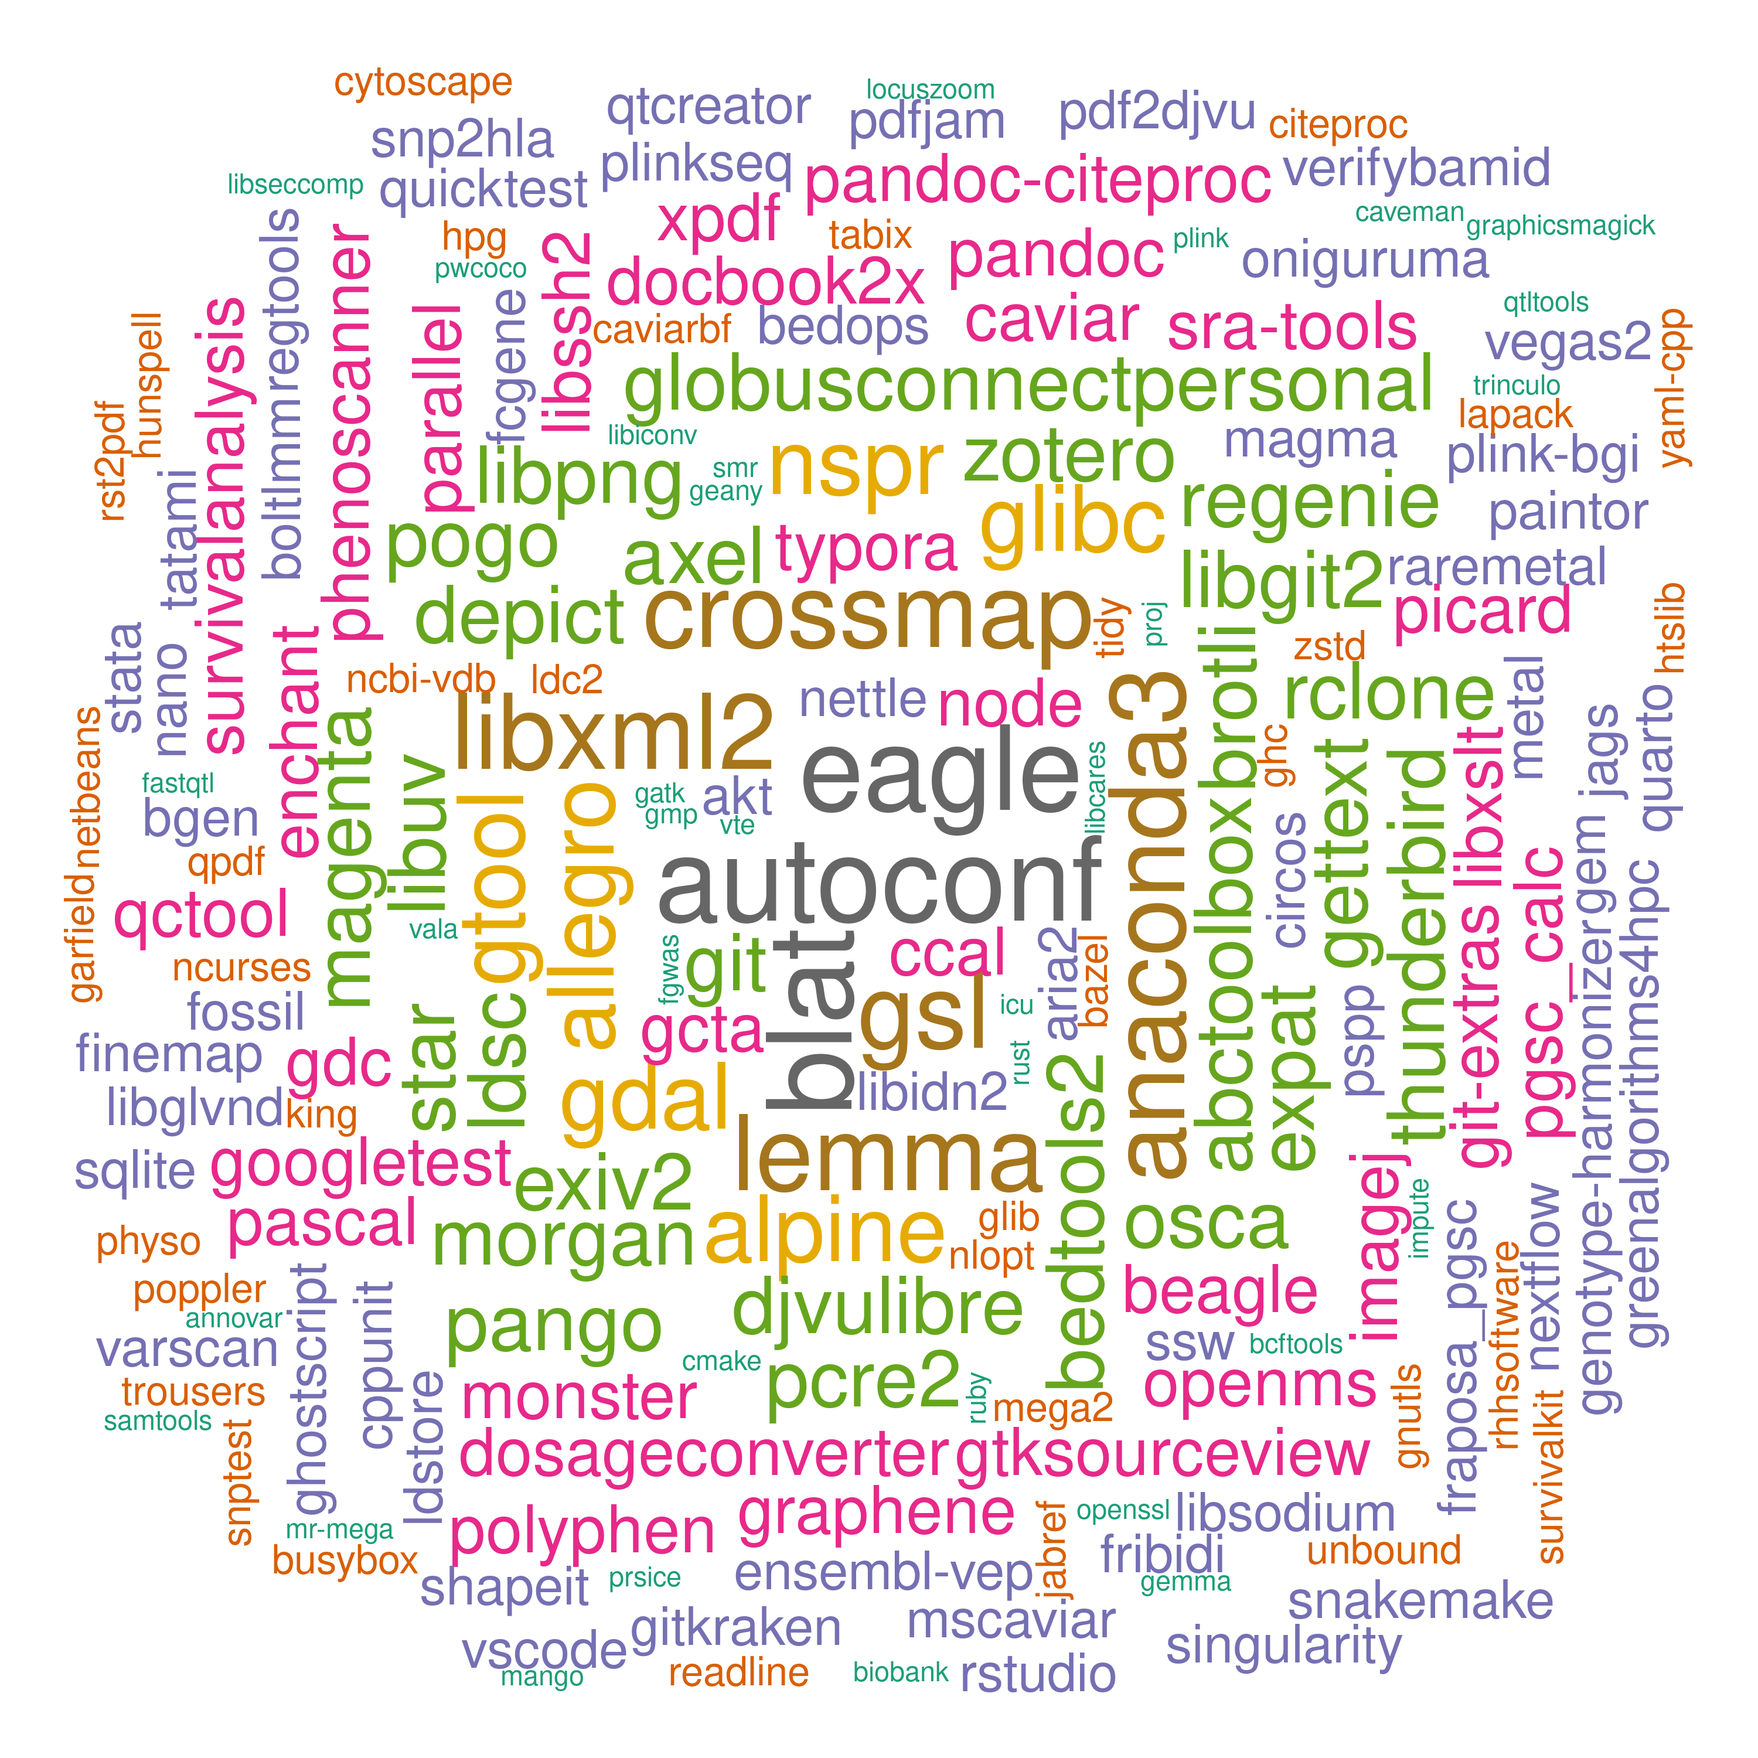
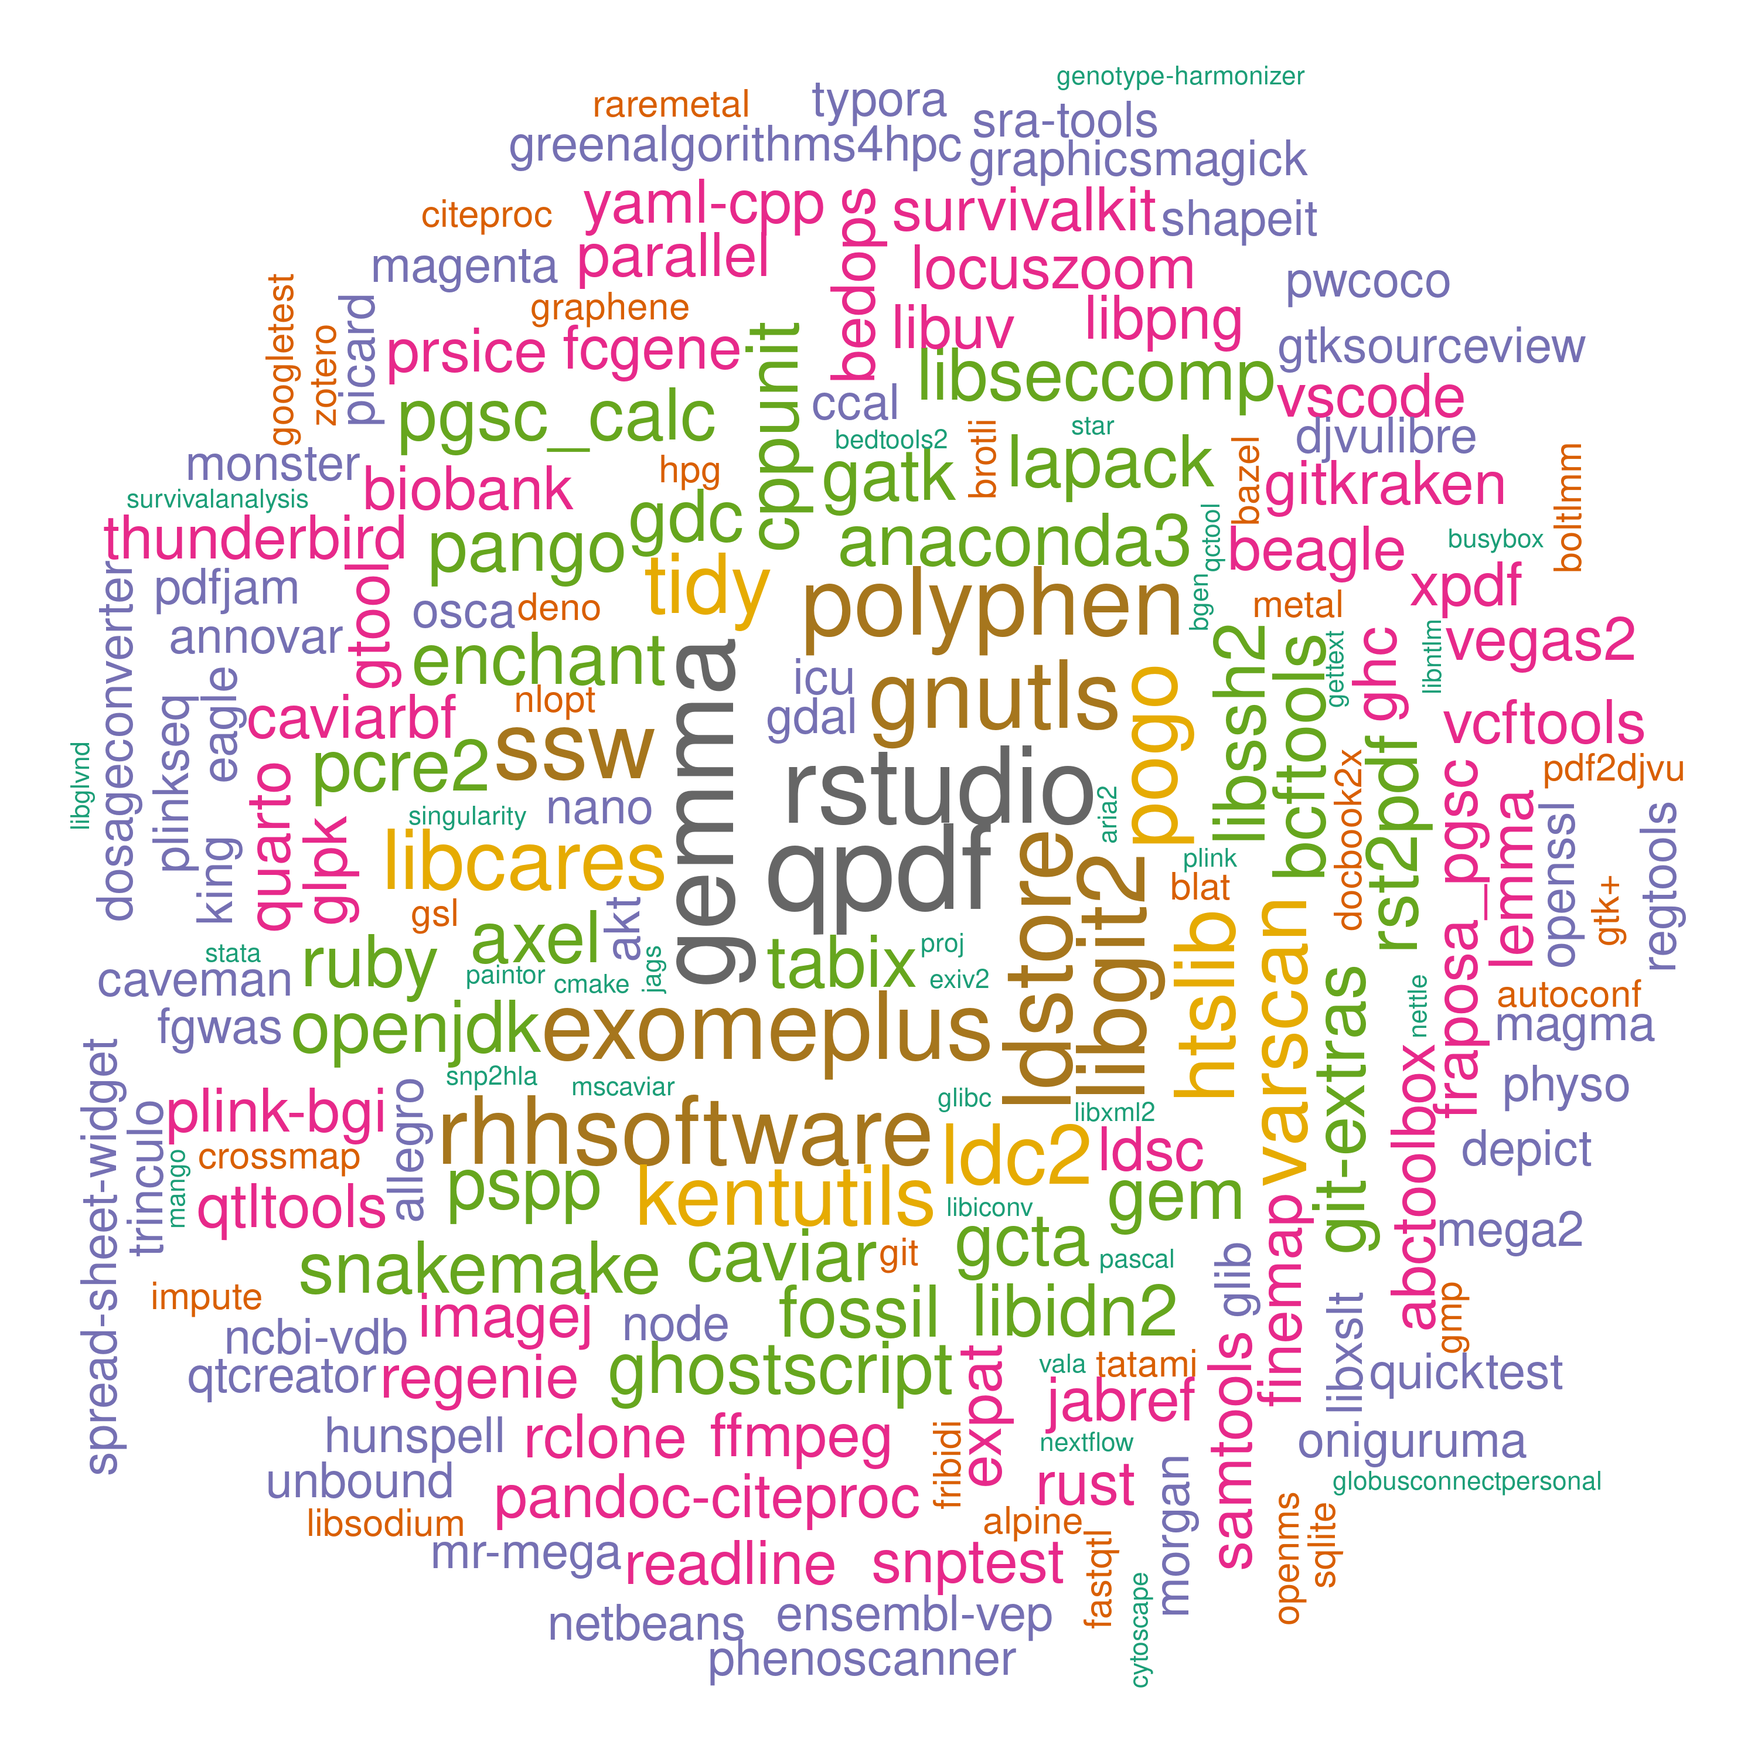
./

Changed region(s): [[0.031, 0.031, 0.961, 0.961]]

diff --git a/systems/ceuadmin.md b/systems/ceuadmin.md
@@ -8,7 +8,7 @@ The CEU software repository is here, **/usr/local/Cluster-Apps/ceuadmin/**.
 
 ![ceuadmin](ceuadmin.png)
 
-noting that the importance of software is purely random according to $$Poisson(N,\lambda)$$ where $$N=207$$, $$\lambda=3$$.
+noting that the importance of software is purely random according to $$Poisson(N,\lambda)$$ where $$N=208$$, $$\lambda=3$$.
 
 ## Entries
 
@@ -32,41 +32,41 @@ The current list is as follows,
  [57] "GEMMA"                 "Genotype-Harmonizer"   "gettext"               "gh"
  [61] "ghc"                   "ghostscript"           "git"                   "git-extras"
  [65] "GitKraken"             "glib"                  "glibc"                 "globusconnectpersonal"
- [69] "gmp"                   "gnutls"                "go"                    "googletest"
- [73] "graphene"              "GraphicsMagick"        "GreenAlgorithms4HPC"   "gsl"
- [77] "gtk+"                  "gtksourceview"         "gtool"                 "hpg"
- [81] "htslib"                "hunspell"              "icu"                   "ImageJ"
- [85] "impute"                "JabRef"                "JAGS"                  "jq"
- [89] "KentUtils"             "KING"                  "lapack"                "ldc2"
- [93] "ldsc"                  "LDstore"               "LEMMA"                 "libcares"
- [97] "libgit2"               "libglvnd"              "libiconv"              "libidn2"
-[101] "libntlm"               "libpng"                "libseccomp"            "libsodium"
-[105] "libssh2"               "libuv"                 "libxml2"               "libxslt"
-[109] "locuszoom"             "MAGENTA"               "magma"                 "Mango"
-[113] "Mega2"                 "metal"                 "MONSTER"               "MORGAN"
-[117] "MR-MEGA"               "MsCAVIAR"              "nano"                  "ncbi-vdb"
-[121] "ncurses"               "netbeans"              "nettle"                "nextflow"
-[125] "NLopt"                 "node"                  "nspr"                  "oniguruma"
-[129] "openjdk"               "OpenMS"                "openssl"               "osca"
-[133] "PAINTOR"               "pandoc"                "pandoc-citeproc"       "pango"
-[137] "parallel"              "Pascal"                "pcre2"                 "pdf2djvu"
-[141] "pdfjam"                "pgsc_calc"             "phenoscanner"          "PhySO"
-[145] "picard"                "plink"                 "plink-bgi"             "plinkseq"
-[149] "PoGo"                  "polyphen"              "poppler"               "proj"
-[153] "PRSice"                "pspp"                  "PWCoCo"                "qctool"
-[157] "qpdf"                  "qt"                    "qtcreator"             "QTLtools"
-[161] "quarto"                "quicktest"             "R"                     "raremetal"
-[165] "rclone"                "readline"              "regenie"               "regtools"
-[169] "RHHsoftware"           "rst2pdf"               "rstudio"               "ruby"
-[173] "rust"                  "samtools"              "shapeit"               "singularity"
-[177] "SMR"                   "snakemake"             "SNP2HLA"               "snptest"
-[181] "spread-sheet-widget"   "sqlite"                "sra-tools"             "ssw"
-[185] "STAR"                  "stata"                 "SurvivalAnalysis"      "SurvivalKit"
-[189] "tabix"                 "tatami"                "thunderbird"           "tidy"
-[193] "trinculo"              "trousers"              "Typora"                "unbound"
-[197] "vala"                  "VarScan"               "vcftools"              "VEGAS2"
-[201] "verifyBamID"           "VSCode"                "vte"                   "xpdf"
-[205] "yaml-cpp"              "Zotero"                "zstd"
+ [69] "glpk"                  "gmp"                   "gnutls"                "go"
+ [73] "googletest"            "graphene"              "GraphicsMagick"        "GreenAlgorithms4HPC"
+ [77] "gsl"                   "gtk+"                  "gtksourceview"         "gtool"
+ [81] "hpg"                   "htslib"                "hunspell"              "icu"
+ [85] "ImageJ"                "impute"                "JabRef"                "JAGS"
+ [89] "jq"                    "KentUtils"             "KING"                  "lapack"
+ [93] "ldc2"                  "ldsc"                  "LDstore"               "LEMMA"
+ [97] "libcares"              "libgit2"               "libglvnd"              "libiconv"
+[101] "libidn2"               "libntlm"               "libpng"                "libseccomp"
+[105] "libsodium"             "libssh2"               "libuv"                 "libxml2"
+[109] "libxslt"               "locuszoom"             "MAGENTA"               "magma"
+[113] "Mango"                 "Mega2"                 "metal"                 "MONSTER"
+[117] "MORGAN"                "MR-MEGA"               "MsCAVIAR"              "nano"
+[121] "ncbi-vdb"              "ncurses"               "netbeans"              "nettle"
+[125] "nextflow"              "NLopt"                 "node"                  "nspr"
+[129] "oniguruma"             "openjdk"               "OpenMS"                "openssl"
+[133] "osca"                  "PAINTOR"               "pandoc"                "pandoc-citeproc"
+[137] "pango"                 "parallel"              "Pascal"                "pcre2"
+[141] "pdf2djvu"              "pdfjam"                "pgsc_calc"             "phenoscanner"
+[145] "PhySO"                 "picard"                "plink"                 "plink-bgi"
+[149] "plinkseq"              "PoGo"                  "polyphen"              "poppler"
+[153] "proj"                  "PRSice"                "pspp"                  "PWCoCo"
+[157] "qctool"                "qpdf"                  "qt"                    "qtcreator"
+[161] "QTLtools"              "quarto"                "quicktest"             "R"
+[165] "raremetal"             "rclone"                "readline"              "regenie"
+[169] "regtools"              "RHHsoftware"           "rst2pdf"               "rstudio"
+[173] "ruby"                  "rust"                  "samtools"              "shapeit"
+[177] "singularity"           "SMR"                   "snakemake"             "SNP2HLA"
+[181] "snptest"               "spread-sheet-widget"   "sqlite"                "sra-tools"
+[185] "ssw"                   "STAR"                  "stata"                 "SurvivalAnalysis"
+[189] "SurvivalKit"           "tabix"                 "tatami"                "thunderbird"
+[193] "tidy"                  "trinculo"              "trousers"              "Typora"
+[197] "unbound"               "vala"                  "VarScan"               "vcftools"
+[201] "VEGAS2"                "verifyBamID"           "VSCode"                "vte"
+[205] "xpdf"                  "yaml-cpp"              "Zotero"                "zstd"
 ```
 
 These are wrapped up as :star::star::star: **[modules](https://modules.readthedocs.io/en/latest/index.html)** :star::star::star:.
@@ -113,15 +113,15 @@ available from `/rds/project/jmmh2/software` but now `/rds/project/jmmh2/rds-jmm
 largely be seen as sources which are used to build the reoository given above.
 
 CEU users will be able to use `ANNOVAR`, `ensembl-vep`, `OpenMS`, `polyphen`, `KentUtils`/`MAGMA`/`Pascal`/`VEGASV2`/`fgwas`/`locuszoom`
-linking internal projects/personal space (additional requests need to be made). A large collection of R packages (1,385 as of 18/1/2024)
-is linked with the latest R distribution, 4.3.2.
+linking internal projects/personal space (additional requests need to be made). A large collection of R packages (1,408 as of 1/3/2024)
+is linked with the latest R distribution, 4.3.3.
 
 For CEU users, it is easy to point to them, e.g.,
 
 ```bash
 export HPC_WORK=/rds/user/$USER/hpc-work/
 export RDS=/rds/project/jmmh2/rds-jmmh2-public_databases/software
-export R_LIBS=${RDS}/R:${RDS}/R-4.3.2/library
+export R_LIBS=${RDS}/R:${RDS}/R-4.3.3/library
 ```
 
 or possible to have your own installations based on these, e.g., through creation of a modified `Makefile` with altered prefix followed
@@ -131,8 +131,8 @@ The following script tests for loading of `dplyr`:
 
 ```bash
 export RDS=/rds/project/jmmh2/rds-jmmh2-public_databases/software
-export PATH=${PATH}:${RDS}/R-4.3.2/bin
-export R_LIBS=${RDS}/R-4.3.2/library:${RDS}/R
+export PATH=${PATH}:${RDS}/R-4.3.3/bin
+export R_LIBS=${RDS}/R-4.3.3/library:${RDS}/R
 Rscript -e 'suppressMessages(library(dplyr));cat("OK!\n")'
 ```
 

diff --git a/systems/files/ceuadmin.md b/systems/files/ceuadmin.md
@@ -22,41 +22,41 @@ The current list is as follows[^ls],
  [57] "GEMMA"                 "Genotype-Harmonizer"   "gettext"               "gh"
  [61] "ghc"                   "ghostscript"           "git"                   "git-extras"
  [65] "GitKraken"             "glib"                  "glibc"                 "globusconnectpersonal"
- [69] "gmp"                   "gnutls"                "go"                    "googletest"
- [73] "graphene"              "GraphicsMagick"        "GreenAlgorithms4HPC"   "gsl"
- [77] "gtk+"                  "gtksourceview"         "gtool"                 "hpg"
- [81] "htslib"                "hunspell"              "icu"                   "ImageJ"
- [85] "impute"                "JabRef"                "JAGS"                  "jq"
- [89] "KentUtils"             "KING"                  "lapack"                "ldc2"
- [93] "ldsc"                  "LDstore"               "LEMMA"                 "libcares"
- [97] "libgit2"               "libglvnd"              "libiconv"              "libidn2"
-[101] "libntlm"               "libpng"                "libseccomp"            "libsodium"
-[105] "libssh2"               "libuv"                 "libxml2"               "libxslt"
-[109] "locuszoom"             "MAGENTA"               "magma"                 "Mango"
-[113] "Mega2"                 "metal"                 "MONSTER"               "MORGAN"
-[117] "MR-MEGA"               "MsCAVIAR"              "nano"                  "ncbi-vdb"
-[121] "ncurses"               "netbeans"              "nettle"                "nextflow"
-[125] "NLopt"                 "node"                  "nspr"                  "oniguruma"
-[129] "openjdk"               "OpenMS"                "openssl"               "osca"
-[133] "PAINTOR"               "pandoc"                "pandoc-citeproc"       "pango"
-[137] "parallel"              "Pascal"                "pcre2"                 "pdf2djvu"
-[141] "pdfjam"                "pgsc_calc"             "phenoscanner"          "PhySO"
-[145] "picard"                "plink"                 "plink-bgi"             "plinkseq"
-[149] "PoGo"                  "polyphen"              "poppler"               "proj"
-[153] "PRSice"                "pspp"                  "PWCoCo"                "qctool"
-[157] "qpdf"                  "qt"                    "qtcreator"             "QTLtools"
-[161] "quarto"                "quicktest"             "R"                     "raremetal"
-[165] "rclone"                "readline"              "regenie"               "regtools"
-[169] "RHHsoftware"           "rst2pdf"               "rstudio"               "ruby"
-[173] "rust"                  "samtools"              "shapeit"               "singularity"
-[177] "SMR"                   "snakemake"             "SNP2HLA"               "snptest"
-[181] "spread-sheet-widget"   "sqlite"                "sra-tools"             "ssw"
-[185] "STAR"                  "stata"                 "SurvivalAnalysis"      "SurvivalKit"
-[189] "tabix"                 "tatami"                "thunderbird"           "tidy"
-[193] "trinculo"              "trousers"              "Typora"                "unbound"
-[197] "vala"                  "VarScan"               "vcftools"              "VEGAS2"
-[201] "verifyBamID"           "VSCode"                "vte"                   "xpdf"
-[205] "yaml-cpp"              "Zotero"                "zstd"
+ [69] "glpk"                  "gmp"                   "gnutls"                "go"
+ [73] "googletest"            "graphene"              "GraphicsMagick"        "GreenAlgorithms4HPC"
+ [77] "gsl"                   "gtk+"                  "gtksourceview"         "gtool"
+ [81] "hpg"                   "htslib"                "hunspell"              "icu"
+ [85] "ImageJ"                "impute"                "JabRef"                "JAGS"
+ [89] "jq"                    "KentUtils"             "KING"                  "lapack"
+ [93] "ldc2"                  "ldsc"                  "LDstore"               "LEMMA"
+ [97] "libcares"              "libgit2"               "libglvnd"              "libiconv"
+[101] "libidn2"               "libntlm"               "libpng"                "libseccomp"
+[105] "libsodium"             "libssh2"               "libuv"                 "libxml2"
+[109] "libxslt"               "locuszoom"             "MAGENTA"               "magma"
+[113] "Mango"                 "Mega2"                 "metal"                 "MONSTER"
+[117] "MORGAN"                "MR-MEGA"               "MsCAVIAR"              "nano"
+[121] "ncbi-vdb"              "ncurses"               "netbeans"              "nettle"
+[125] "nextflow"              "NLopt"                 "node"                  "nspr"
+[129] "oniguruma"             "openjdk"               "OpenMS"                "openssl"
+[133] "osca"                  "PAINTOR"               "pandoc"                "pandoc-citeproc"
+[137] "pango"                 "parallel"              "Pascal"                "pcre2"
+[141] "pdf2djvu"              "pdfjam"                "pgsc_calc"             "phenoscanner"
+[145] "PhySO"                 "picard"                "plink"                 "plink-bgi"
+[149] "plinkseq"              "PoGo"                  "polyphen"              "poppler"
+[153] "proj"                  "PRSice"                "pspp"                  "PWCoCo"
+[157] "qctool"                "qpdf"                  "qt"                    "qtcreator"
+[161] "QTLtools"              "quarto"                "quicktest"             "R"
+[165] "raremetal"             "rclone"                "readline"              "regenie"
+[169] "regtools"              "RHHsoftware"           "rst2pdf"               "rstudio"
+[173] "ruby"                  "rust"                  "samtools"              "shapeit"
+[177] "singularity"           "SMR"                   "snakemake"             "SNP2HLA"
+[181] "snptest"               "spread-sheet-widget"   "sqlite"                "sra-tools"
+[185] "ssw"                   "STAR"                  "stata"                 "SurvivalAnalysis"
+[189] "SurvivalKit"           "tabix"                 "tatami"                "thunderbird"
+[193] "tidy"                  "trinculo"              "trousers"              "Typora"
+[197] "unbound"               "vala"                  "VarScan"               "vcftools"
+[201] "VEGAS2"                "verifyBamID"           "VSCode"                "vte"
+[205] "xpdf"                  "yaml-cpp"              "Zotero"                "zstd"
 ```
 
 Most should be available to all CSD3 users in the whole campus, e.g., for pspp, a brief description of a module is available with
@@ -321,6 +321,7 @@ They are ordered chronologically.
 | ""          | deno/1.40.2                      | Generic[^deno]       |
 | ""          | deno/1.40.2-icelake              | Generic              |
 | ""          | quarto/1.4.549                   | Generic              |
+! 2024-03-01  | glpk/5.0                         | Generic              |
 
 \* CEU or approved users only.
 

diff --git a/R/DescTools.md b/R/DescTools.md
@@ -29,7 +29,7 @@ ERROR: compilation failed for package ‘DescTools’
 which indicates that C++17 is required; it turns out specification via `.R/Makevars` is insufficient and we proceed with
 
 ```bash
-module lost gcc/8
+module load gcc/8
 tar xvfz DescTools_0.99.52.tar.gz
 sed -i '/LinkingTo/i\SystemRequirements: C++17' DescTools/DESCRIPTION
 R CMD INSTALL DescTools
